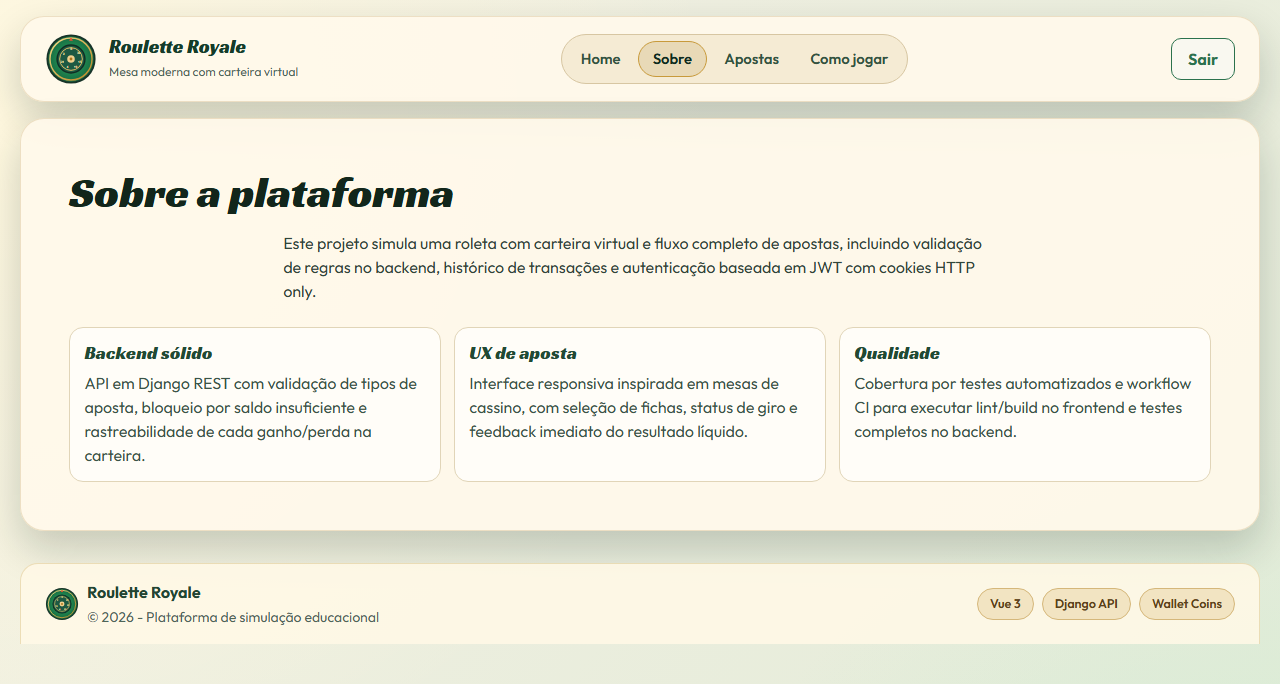
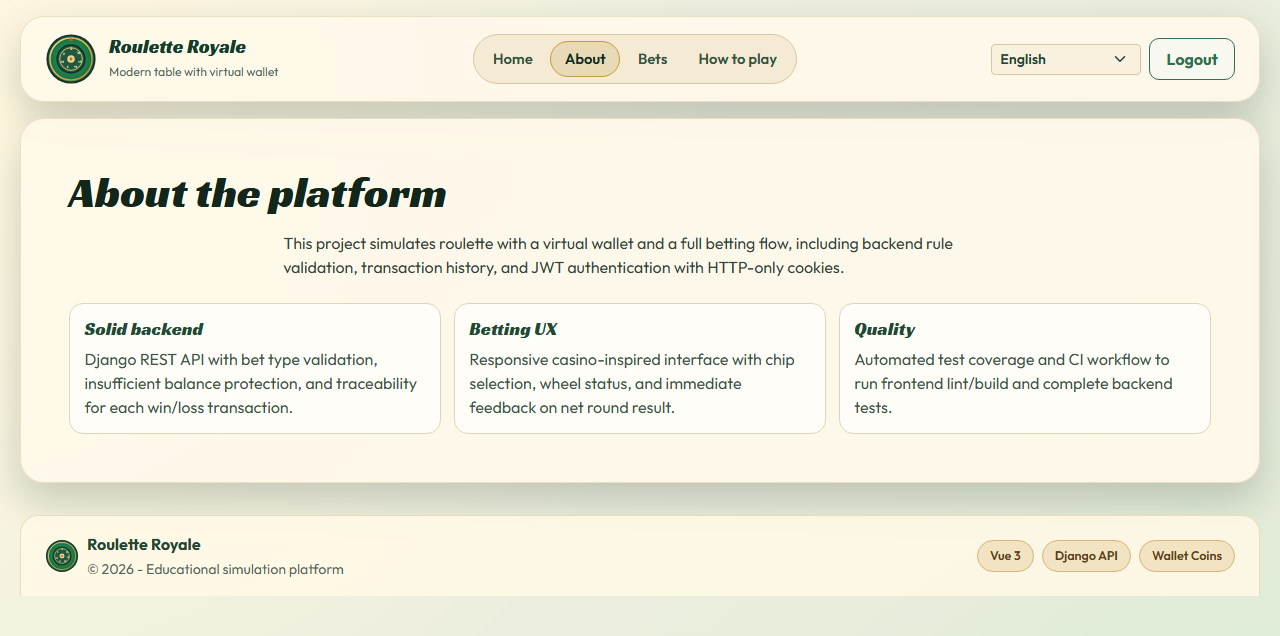
docs: migrate docs to english and refresh screenshots

diff --git a/docs/PROJECT_DOCUMENTATION.md b/docs/PROJECT_DOCUMENTATION.md
@@ -4,9 +4,11 @@
 
 Roulette Royale is a full-stack roulette simulation platform with:
 
-- Django REST backend for authentication, bet validation, wallet and transactions
-- Vue 3 frontend with responsive roulette table, chip selection and wallet panel
-- JWT cookie auth (`access_token` + `refresh_token`)
+- Django REST backend for authentication, bet validation, wallet, and transactions
+- Vue 3 frontend with responsive roulette board, chip selection, and wallet panel
+- JWT cookie authentication (`access_token` + `refresh_token`)
+- Full multilingual UI (`en`, `pt-BR`, `es`)
+- Localized transaction descriptions rendered in the currently selected language
 - Automated test suite and GitHub Actions CI
 
 ## 2. Architecture
@@ -20,11 +22,22 @@ Roulette Royale is a full-stack roulette simulation platform with:
   - `Wallet` (one per user)
   - `Transaction` (credits/debits for deposit/win/loss)
 
+#### Transaction localization model
+
+Each transaction now stores:
+
+- `description` (human-readable fallback)
+- `description_key` (stable key, e.g. `transaction.bet_win`)
+- `description_context` (structured metadata for interpolation)
+
+This allows the frontend to translate the same transaction row into any supported language without re-fetching rewritten text from backend.
+
 ### Frontend (`frontend`)
 
 - Framework: Vue 3
 - Router: Vue Router (guarded routes)
-- State: Vuex module (`auth`)
+- State: Vuex (`auth` module)
+- Internationalization: Vue I18n + persisted locale
 - API integration: `fetch` + `axios`
 - Main gameplay UI: `Wheel.vue` + `RouletteBorder.vue`
 
@@ -34,15 +47,15 @@ All bets are validated server-side before applying wallet changes.
 
 ### Validation behavior
 
-- Rejects malformed bets (`[value, type, numbers]` required)
-- Rejects unknown bet types
-- Rejects invalid number combinations per roulette rule set
-- Rejects out-of-range numbers (must be `0..36`)
-- Rejects spin if wallet balance is lower than total stake
+- Reject malformed bets (`[value, type, numbers]` required)
+- Reject unknown bet types
+- Reject invalid number combinations per roulette rules
+- Reject out-of-range numbers (`0..36`)
+- Reject spin when wallet balance is lower than total stake
 
 ### Payout model
 
-Profit formula used on win:
+Profit formula on a winning bet:
 
 - `profit = (36 / covered_numbers) * value - value`
 
@@ -75,11 +88,11 @@ Examples:
 
 - `GET /api/wallet/?limit=10` - wallet summary + latest transactions
 - `POST /api/wallet/deposit/` - add virtual coins
-- `GET /api/transactions/?limit=20` - list transaction history
+- `GET /api/transactions/?limit=20` - paginated transaction history
 
 ## 5. Frontend Flows
 
-### Login/Register
+### Login / Register
 
 - `RegisterView` creates account through API
 - `LoginView` authenticates and redirects to home
@@ -88,23 +101,30 @@ Examples:
 ### Betting UX
 
 - Choose chip value (`5, 10, 25, 50, 100`)
-- Click table sectors (inside and outside bets)
-- See current selected bets and total stake
-- Spin and receive detailed response (`drawn_number`, `net_result`, `new_balance`)
+- Click roulette board sectors (inside and outside bets)
+- Track selected bets with total stake
+- Spin and receive full response (`drawn_number`, `net_result`, `new_balance`)
 
 ### Wallet UX
 
 - Quick deposits (`+100`, `+500`, `+1000`)
 - Live wallet balance
-- Latest transactions panel
+- Transaction panel with search, pagination, and infinite-scroll trigger
+
+### Language UX
+
+- Language selector in navbar (`English`, `Português (Brasil)`, `Español`)
+- Locale persisted in browser storage
+- All main UI text translated
+- Errors and transaction descriptions translated from keys/context
 
 ## 6. Design Direction
 
-Visual refresh is based on casino cues:
+Visual refresh follows casino references:
 
 - Green felt + gold accents
-- Rounded glass panels and clear hierarchy
-- Responsive grid and horizontal-safe table area
+- Rounded panels with clear hierarchy
+- Responsive board and overflow-safe table container
 
 Reference sources:
 
@@ -116,8 +136,8 @@ Reference sources:
 ### Backend
 
 - Location: `server/api/roulette_api/tests`
-- Includes roulette rules, API, wallet and transaction tests
-- Run with:
+- Coverage includes roulette rules, API, wallet, and transaction behavior
+- Run:
 
 ```bash
 cd server/api
@@ -145,9 +165,9 @@ Workflow file: `.github/workflows/django-server.yml`
   - `uv pip install -r requirements.txt`
   - `USE_SQLITE=true uv run python manage.py test`
 
-## 8.1 Backend Dependency Management (Recommended)
+## 9. Dependency Management with UV
 
-Use `uv` to avoid global Python dependency conflicts:
+Recommended backend flow to avoid global Python dependency conflicts:
 
 ```bash
 cd server/api
@@ -157,7 +177,7 @@ USE_SQLITE=true uv run python manage.py migrate
 USE_SQLITE=true uv run python manage.py runserver 0.0.0.0:8080
 ```
 
-## 9. Screenshots Automation
+## 10. Screenshot Automation
 
 Script:
 
@@ -165,7 +185,9 @@ Script:
 
 Behavior:
 
-- Captures the app shell of each route (`header + main + footer`) with outer margin (no full browser-page screenshot), reducing empty space.
+- Captures app shell (`header + main content + footer`) with external margin
+- Waits for route data loading before capture
+- Avoids full-browser-page screenshots with large empty areas
 
 Command:
 

diff --git a/README.md b/README.md
@@ -1,18 +1,22 @@
 # Roulette Royale
 
-Plataforma completa de roleta com backend Django e frontend Vue, incluindo:
+Full-stack roulette simulation platform with Django backend and Vue frontend.
 
-- validação real de apostas no servidor
-- carteira virtual com depósito e histórico de transações
-- autenticação JWT por cookie HTTP-only
-- interface renovada, responsiva e otimizada para apostar
-- pipeline CI para lint/build/tests
+## Highlights
+
+- Real server-side roulette bet validation
+- Virtual wallet with deposit and transaction history
+- JWT authentication using HTTP-only cookies
+- Responsive casino-inspired UI
+- Full language switching (`English`, `Português (Brasil)`, `Español`)
+- Transaction descriptions localized in the active UI language
+- CI pipeline for frontend lint/build and backend tests
 
 ## Preview
 
 ![Home](./docs/screenshots/home.png)
 
-Mais imagens: [docs/SCREENSHOTS.md](./docs/SCREENSHOTS.md)
+More screenshots: [docs/SCREENSHOTS.md](./docs/SCREENSHOTS.md)
 
 ## Stack
 
@@ -21,24 +25,25 @@ Mais imagens: [docs/SCREENSHOTS.md](./docs/SCREENSHOTS.md)
 - Vue 3
 - Vue Router
 - Vuex
-- Bootstrap + tema customizado
+- Vue I18n
+- Bootstrap + custom theme
 
 ### Backend
 
 - Django
 - Django REST Framework
 - SimpleJWT
-- DRF-YASG (Swagger/ReDoc)
+- DRF-YASG (Swagger / ReDoc)
 
-## Estrutura do projeto
+## Project Structure
 
-- `frontend/` - aplicação Vue
-- `server/api/` - API Django
-- `docs/` - documentação detalhada e galeria de screenshots
+- `frontend/` - Vue application
+- `server/api/` - Django API
+- `docs/` - technical docs and screenshot gallery
 
-Documentação completa: [docs/PROJECT_DOCUMENTATION.md](./docs/PROJECT_DOCUMENTATION.md)
+Technical documentation: [docs/PROJECT_DOCUMENTATION.md](./docs/PROJECT_DOCUMENTATION.md)
 
-## Como rodar localmente (sem Docker)
+## Run Locally (without Docker)
 
 ## 1) Backend
 
@@ -47,21 +52,26 @@ cd server/api
 cp .env.example .env
 ```
 
-Ajuste variáveis do `.env` se necessário.
-Instale o `uv` pela documentação oficial: https://docs.astral.sh/uv/getting-started/installation/
+Install `uv` from the official docs:
+https://docs.astral.sh/uv/getting-started/installation/
 
-Recomendado: usar `uv` para instalar dependências no `.venv` local (sem conflito global):
+Create local virtual environment and install dependencies:
 
 ```bash
 uv venv .venv
 uv pip install -r requirements.txt
+```
+
+Run migrations and start server with SQLite:
+
+```bash
 USE_SQLITE=true uv run python manage.py migrate
 USE_SQLITE=true uv run python manage.py runserver 0.0.0.0:8080
 ```
 
 ## 2) Frontend
 
-Em outro terminal:
+In another terminal:
 
 ```bash
 cd frontend
@@ -70,32 +80,32 @@ npm install
 npm run serve
 ```
 
-Acesse:
+Open:
 
-- Frontend: `http://localhost:8000` (ou `8001` se 8000 estiver ocupado)
+- Frontend: `http://localhost:8000` (or another available port)
 - API: `http://localhost:8080`
 - Swagger: `http://localhost:8080/swagger/`
 
-## Como rodar com Docker
+## Run with Docker
 
-1. Copie os arquivos de ambiente:
+1. Copy environment files:
 
 ```bash
 cp server/api/.env.example server/api/.env
 cp frontend/.env.example frontend/.env
 ```
 
-2. Para Docker, use `DB_HOST=db` em `server/api/.env`.
+2. For Docker networking, set `DB_HOST=db` in `server/api/.env`.
 
-3. Suba tudo:
+3. Start containers:
 
 ```bash
 docker compose up --build
 ```
 
-## Testes
+## Tests
 
-### Backend (todos os testes)
+### Backend (all tests)
 
 ```bash
 cd server/api
@@ -110,25 +120,25 @@ npm run lint
 npm run build
 ```
 
-## Captura de screenshots (shell completo da página)
+## Capture Screenshots
 
-Com backend e frontend rodando:
+With backend and frontend running:
 
 ```bash
 cd frontend
 npm run capture:screenshots -- --base-url=http://localhost:8000 --api-url=http://localhost:8080
 ```
 
-As imagens são salvas em `docs/screenshots/` e incluem `header + conteúdo + footer` com margem externa.
+Generated files are saved in `docs/screenshots/` and capture the app shell (`header + content + footer`) with external margin.
 
 ## CI (GitHub Actions)
 
-Arquivo: `.github/workflows/django-server.yml`
+Workflow file: `.github/workflows/django-server.yml`
 
-- Job frontend: install + lint + build
-- Job backend: install + `uv run python manage.py test`
+- Frontend job: `npm ci`, `npm run lint`, `npm run build`
+- Backend job: install with `uv` and run `USE_SQLITE=true uv run python manage.py test`
 
-## Referências visuais utilizadas
+## Visual References Used
 
 - https://dribbble.com/search/roulette
 - https://www.shutterstock.com/pt/search/roulette-table-layout?dd_referrer=https%3A%2F%2Fwww.google.com%2F

diff --git a/server/README.md b/server/README.md
@@ -1,19 +1,19 @@
 # Backend (Django API)
 
-API da Roulette Royale com:
+Roulette Royale backend API with:
 
-- autenticação JWT por cookie
-- motor de validação de apostas
-- carteira e transações
-- endpoints de roleta, saldo e histórico
+- JWT cookie authentication
+- Roulette bet validation engine
+- Wallet and transaction management
+- Roulette, balance, and transaction history endpoints
 
-## Pré-requisitos
+## Prerequisites
 
 - Python 3.10+
-- `uv` (recomendado)
-- Instalação do `uv` (docs oficiais): https://docs.astral.sh/uv/getting-started/installation/
+- `uv` (recommended)
+- Official install docs: https://docs.astral.sh/uv/getting-started/installation/
 
-## Configuração
+## Setup
 
 ```bash
 cd api
@@ -22,14 +22,14 @@ uv venv .venv
 uv pip install -r requirements.txt
 ```
 
-## Rodar com SQLite (dev/test)
+## Run with SQLite (dev/test)
 
 ```bash
 USE_SQLITE=true uv run python manage.py migrate
 USE_SQLITE=true uv run python manage.py runserver 0.0.0.0:8080
 ```
 
-## Endpoints principais
+## Main Endpoints
 
 - `POST /api/create/`
 - `POST /api/token/`
@@ -42,7 +42,7 @@ USE_SQLITE=true uv run python manage.py runserver 0.0.0.0:8080
 - `GET /api/transactions/`
 - `GET /swagger/`
 
-## Testes
+## Tests
 
 ```bash
 USE_SQLITE=true uv run python manage.py test

diff --git a/docs/SCREENSHOTS.md b/docs/SCREENSHOTS.md
@@ -1,6 +1,6 @@
 # Gallery
 
-These screenshots were generated with Playwright capturing the full app shell (`header + main content + footer`) with an outer visual margin (not a full browser-page screenshot), after waiting for route data loading.
+These screenshots were generated with Playwright capturing the full app shell (`header + main content + footer`) with an outer visual margin (not a full browser-page screenshot), after waiting for route data loading. The default locale for capture is English.
 
 ## Home
 
